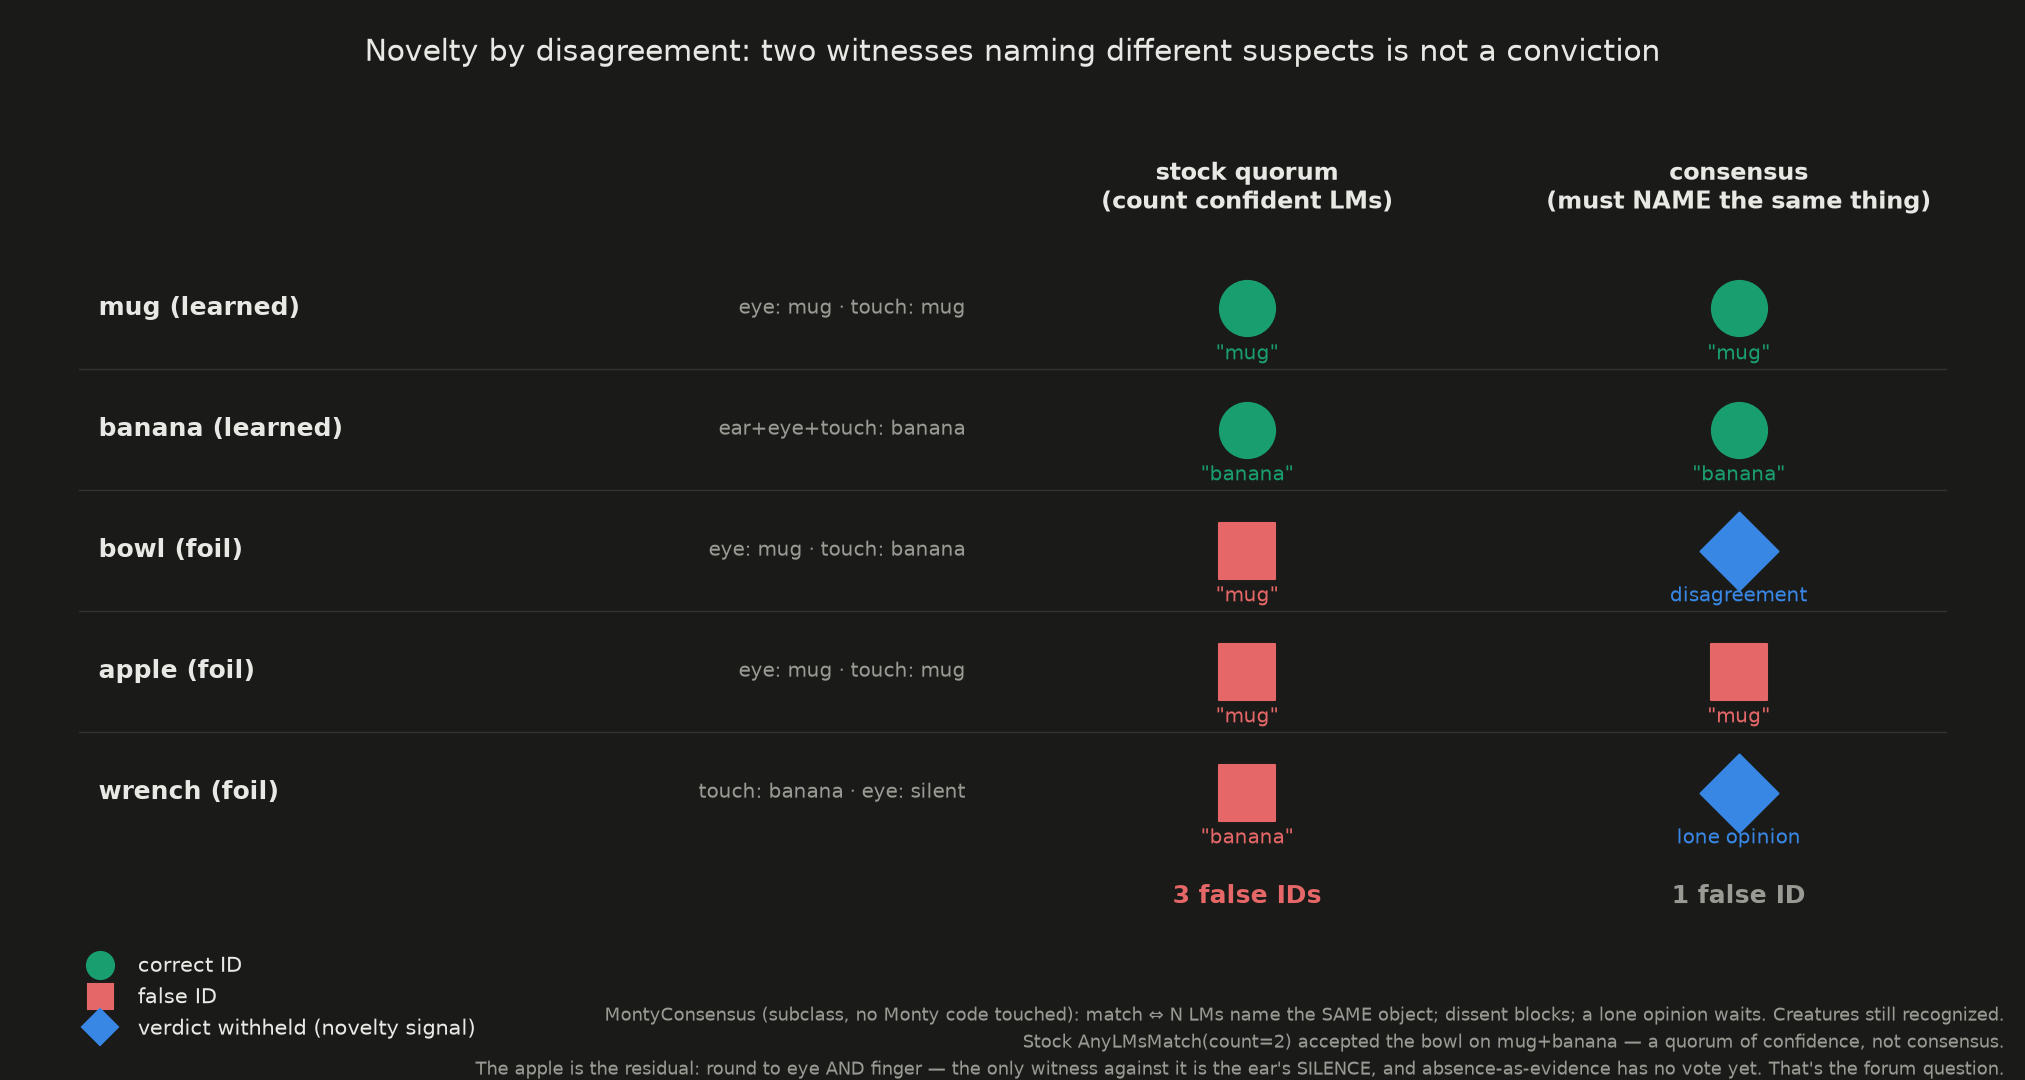
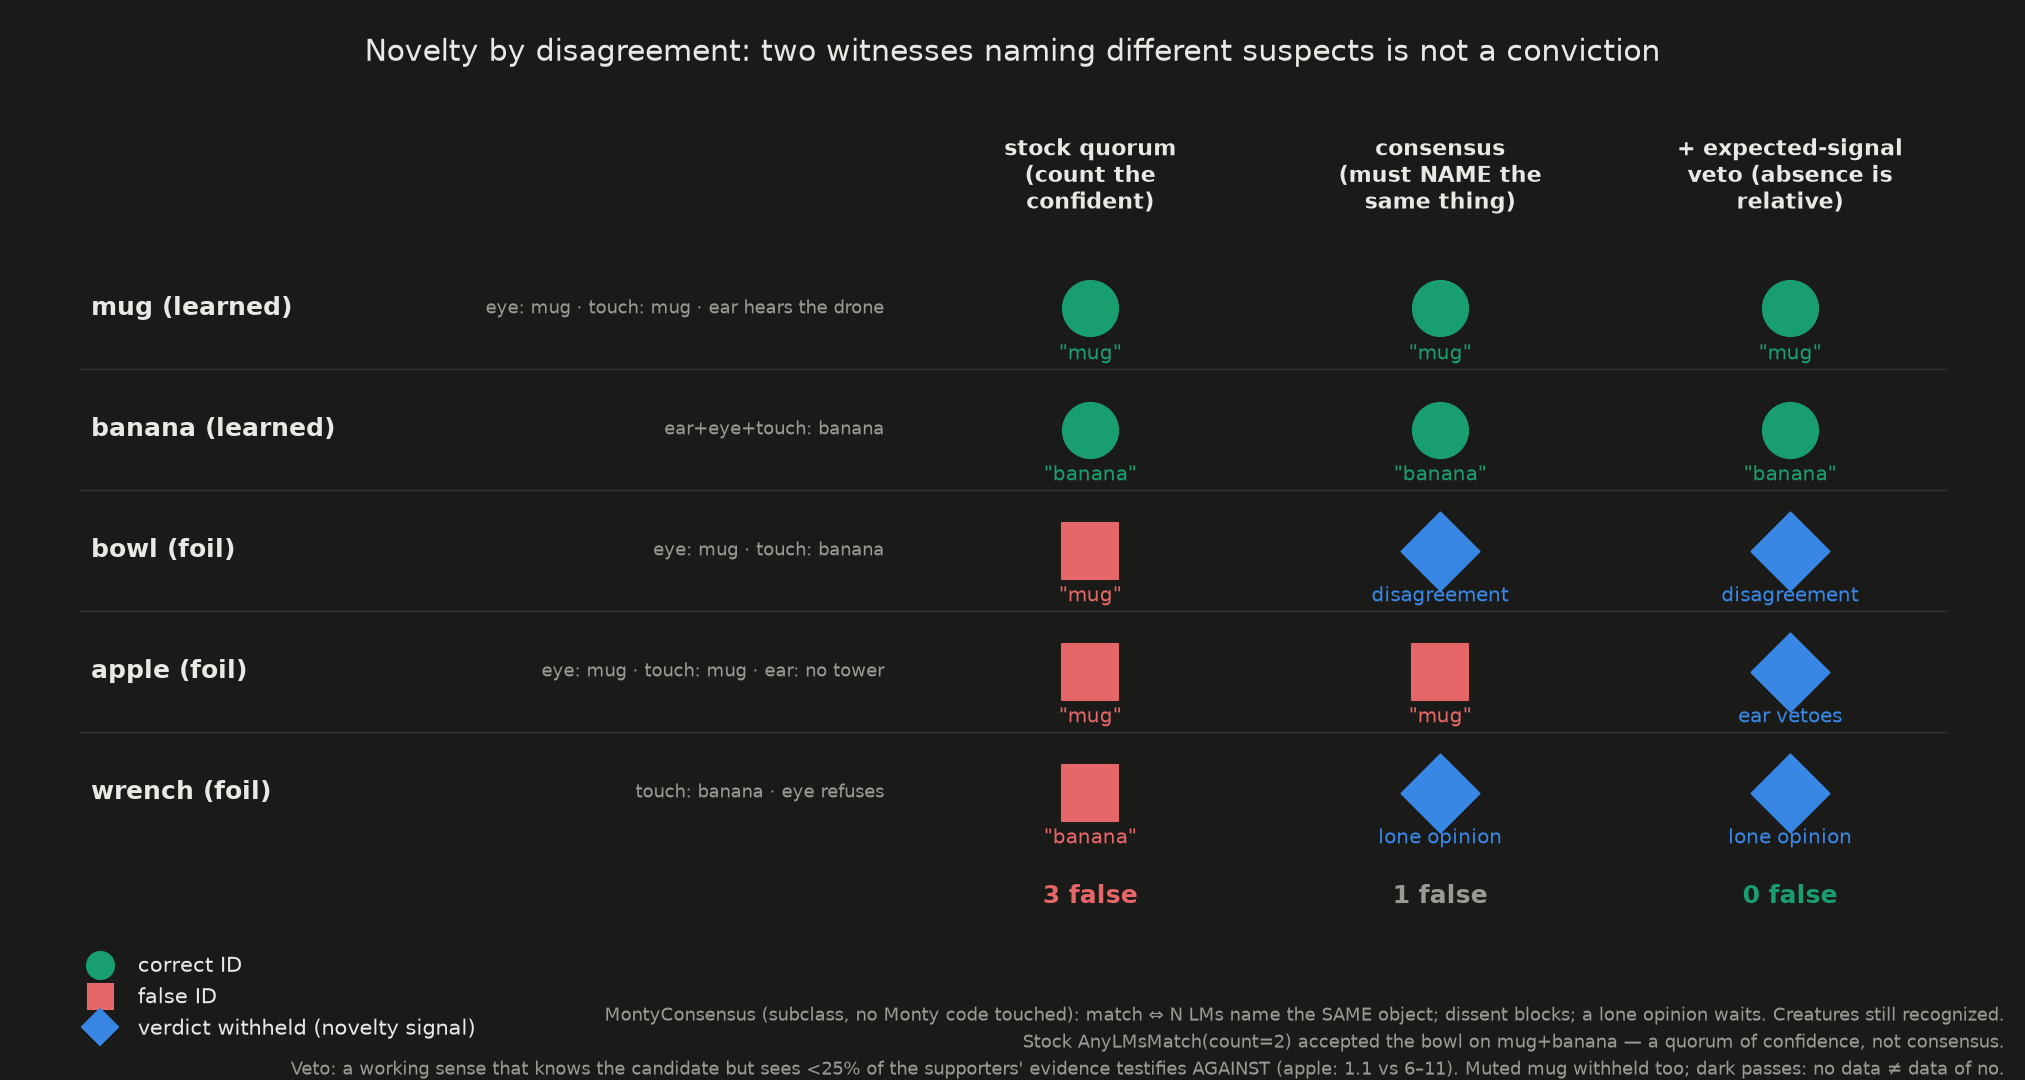
Expected-signal veto: silence isn't silence, absence is relative
- Bryan: 'it's not that IT'S not making a sound, it's that it's not
  making a sound COMPARED to the sound that is present.' The other
  Fable: the measurement is the sax-mute differential, already
  built, never wired to a vote. Wired.
- MontyConsensus._expected_signal_veto: a FUNCTIONING sense (not
  dark/numb) that has a learned graph for the candidate but sees
  evidence under VETO_FRAC=25% of the supporters' level testifies
  AGAINST. Absolute-zero test failed first (CARFAC startup
  transient hands the mug 1.08 junk evidence on a silent world,
  nobs=2, caught by trace); the relative floor is the fix and the
  thesis.
- Results: apple VETOED (ear sees 1.08 vs supporters 6-11) -- foils
  now 0/3 false. Creatures pass, incl. the slow-ear case (its real
  drone evidence clears the relative floor -- the mug/ear race
  solved by the same rule). DARK passes (disabled eye abstains: no
  data). MUTE withheld (working ear vetoes: data of no) -- the
  intended cost, on record: a mug-shape that doesn't hum is not a
  mug.
- figure: three-column scorecard, 3 false -> 1 false -> 0 false.

diff --git a/audiomonty/consensus.py b/audiomonty/consensus.py
@@ -71,6 +71,69 @@ class MontyConsensus(MontyForEvidenceGraphMatching):
                 f"opinion is not an identification"
             )
             return False
+        supporters = [max(lm._hypotheses[obj].evidence)
+                      for lm in self.learning_modules
+                      if lm.terminal_state == "match"
+                      and lm.detected_object == obj
+                      and obj in getattr(lm, "_hypotheses", {})]
+        veto = self._expected_signal_veto(obj, supporters)
+        if veto:
+            logger.info(f"EXPECTED-SIGNAL VETO by {veto}: it was "
+                        f"watching, it knows '{obj}', and the scene "
+                        f"does not contain the tower '{obj}' predicts")
+            return False
         logger.info(f"\n\nMONTY CONSENSUS MATCH: {n} senses agree on "
                     f"'{obj}'\n\n")
         return True
+
+    # ------------------------------------------------------------------
+    VETO_FRAC = 0.25   # the witness's tower must reach at least this
+                       # fraction of the supporters' -- absence is
+                       # RELATIVE ("it's not making a sound COMPARED
+                       # to the sound that is present")
+
+    def _expected_signal_veto(self, obj: str, supporter_ev: list):
+        """Silence is not silence (Bryan, 2026-09-12): a sense never
+        delivers nothing, it delivers a scene, and the candidate
+        object predicts a specific tower standing above that scene's
+        floor. If a FUNCTIONING sense (not dark, not numb) that has a
+        LEARNED GRAPH for the candidate finds essentially no trace of
+        it -- evidence far below what the agreeing senses are seeing
+        (VETO_FRAC of their level; a startup transient's crumbs do
+        not clear it) -- that is not abstention. It is testimony:
+        'whatever this is, it is not the thing I would have heard.'
+        The sax-mute differential, wired to a vote. Measured floor
+        rationale: on a voiceless foil the ear's junk evidence for
+        'mug' rides CARFAC's startup transient (2 stray percepts),
+        small but positive -- an absolute zero test misses it; a
+        relative one does not.
+
+        A disabled sense (lit=False / numb=True) genuinely abstains:
+        no data is different from data of no."""
+        if not supporter_ev:
+            return None
+        floor = self.VETO_FRAC * (sum(supporter_ev) / len(supporter_ev))
+        for i, lm in enumerate(self.learning_modules):
+            if lm.terminal_state == "match" and lm.detected_object == obj:
+                continue                       # a supporter, not a witness
+            sms = getattr(self, "sensor_modules", None)
+            sm = sms[i] if sms is not None and i < len(sms) else None
+            if sm is not None and (getattr(sm, "lit", True) is False
+                                   or getattr(sm, "numb", False)):
+                continue                       # channel absent: abstains
+            if obj not in lm.get_all_known_object_ids():
+                continue                       # never learned it: no
+                                               # prediction to violate
+            hyp = getattr(lm, "_hypotheses", {}).get(obj)
+            ev = (float(max(hyp.evidence))
+                  if hyp is not None and len(hyp.evidence) else 0.0)
+            if ev < floor:
+                logger.info(
+                    f"veto arithmetic: {lm.learning_module_id} sees "
+                    f"{ev:.2f} for '{obj}' vs supporters' "
+                    f"{[round(s, 1) for s in supporter_ev]} "
+                    f"(floor {floor:.2f})"
+                )
+                return lm.learning_module_id   # looked where the tower
+                                               # should stand: floor
+        return None
